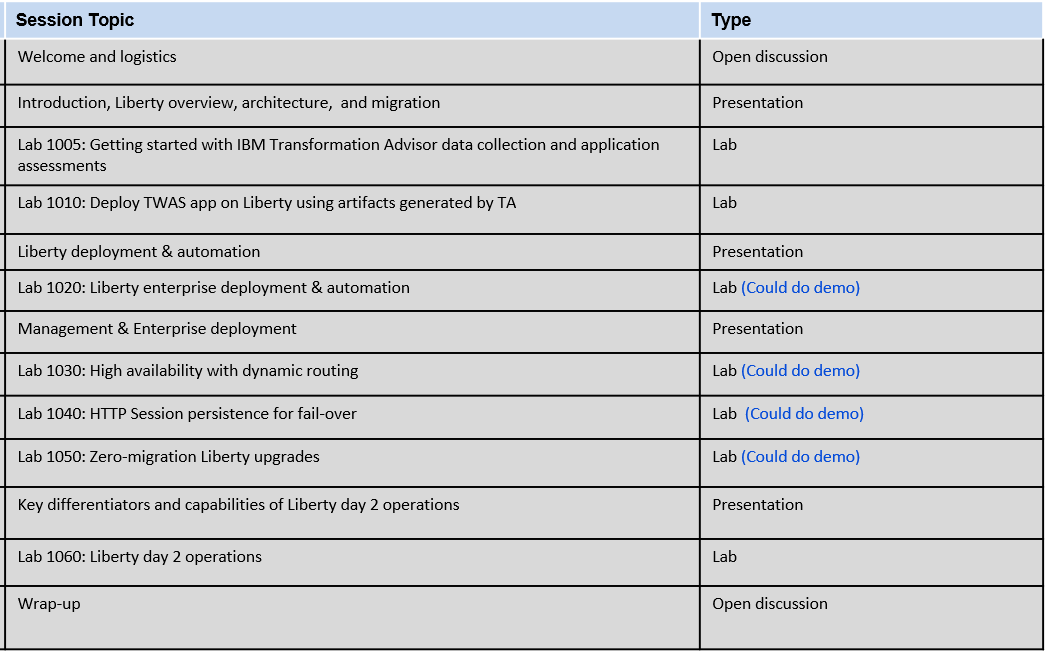
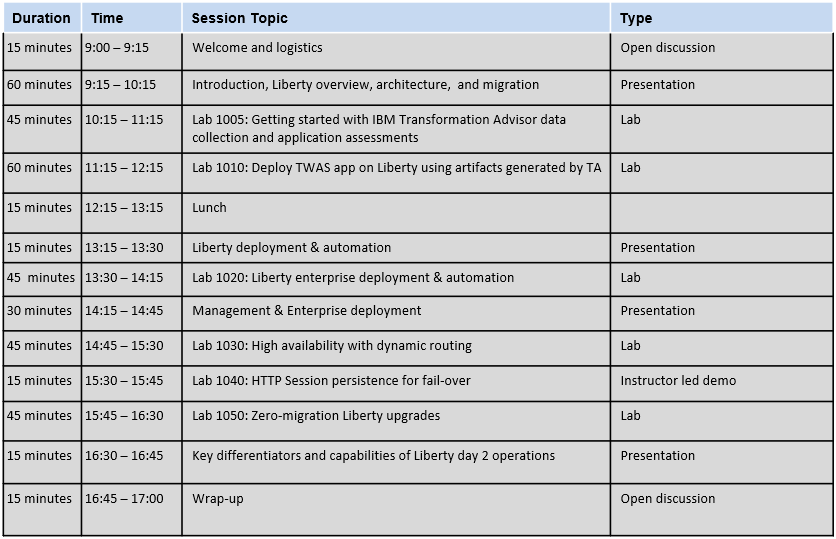
Deployed 9b71baa with MkDocs version: 1.0.4

Changed region(s): [[0.0, 0.0, 1.0, 1.0]]

diff --git a/day1/index.html b/day1/index.html
@@ -62,7 +62,10 @@
     <li class="toctree-l2"><a href="#access-the-lab-environment">Access the lab environment</a></li>
     
 
-    <li class="toctree-l2"><a href="#labs">Labs</a></li>
+    <li class="toctree-l2"><a href="#runtime-modernization-labs">Runtime modernization labs</a></li>
+    
+
+    <li class="toctree-l2"><a href="#liberty-enterprise-deployment-labs">Liberty Enterprise deployment labs</a></li>
     
 
     </ul>
@@ -126,15 +129,62 @@ Time | Session
 -->
 
 <h3 id="access-the-lab-environment">Access the lab environment</h3>
-<p><strong>Lab Environment:</strong>  <a href="https://tbd">TBD</a></p>
-<blockquote>
+<h4 style="color:red"> Lab environments have been pre-assigned based on your email address provided to IBM. </h4>
+
+<h4 style="color:red"> The lab instructor will provide you the URL to your unique lab environment. </h4>
+
+<!--
+### Access the lab environment
+
+  **Lab Environment:**  [https://techzone.ibm.com/my/workshops/student/645562a59841da00176142a0](https://techzone.ibm.com/my/workshops/student/645562a59841da00176142a0)
+
+  > - **Workshop Password:** liberty0616
+-->
+
+<h3 id="runtime-modernization-labs">Runtime modernization labs</h3>
 <ul>
-<li><strong>Workshop Password:</strong> techjam0504</li>
+<li>
+<p>LAB 1005: Getting started with IBM Transformation Advisor data collection and application assessments</p>
+</li>
+<li>
+<p>LAB 1010: Deploy TWAS app on Liberty using artifacts generated by TA</p>
+</li>
 </ul>
-</blockquote>
-<h3 id="labs">Labs</h3>
-<pre><code>[Lab Guides](http://tbd)
-</code></pre>
+<h3 id="liberty-enterprise-deployment-labs">Liberty Enterprise deployment labs</h3>
+<ul>
+<li>
+<p>LAB 1020: Liberty enterprise deployment &amp; automation</p>
+</li>
+<li>
+<p>LAB 1030: High availability with dynamic routing</p>
+</li>
+<li>
+<p>LAB 1050: Zero-migration Liberty upgrades</p>
+</li>
+</ul>
+<!--
+### Runtime modernization labs
+
+
+
+  - LAB 1005: [Getting started with IBM Transformation Advisor data collection and application assessments](https://github.com/IBMTechSales/liberty-enterprise-deployment-labs/tree/master/1005-Transformation_Advisor)
+
+  - LAB 1010: [Deploy TWAS app on Liberty using artifacts generated by TA](https://github.com/IBMTechSales/liberty-enterprise-deployment-labs/tree/master/1010-Modernize-Runtime-to-Liberty)
+
+
+
+
+
+### Liberty Enterprise deployment labs 
+
+
+  - LAB 1020: [Liberty enterprise deployment & automation](https://github.com/IBMTechSales/liberty-enterprise-deployment-labs/tree/master/1020-Liberty-app-deployment-collectives)
+
+  - LAB 1030: [High availability with dynamic routing ](https://github.com/IBMTechSales/liberty-enterprise-deployment-labs/tree/master/1030-Value-of-Liberty-dynamic-routing)
+
+  - LAB 1050: [Zero-migration Liberty upgrades](https://github.com/IBMTechSales/liberty-enterprise-deployment-labs/tree/master/1050-Zero-migration-upgrade%20-Liberty)
+
+-->
               
             </div>
           </div>

diff --git a/index.html b/index.html
@@ -107,18 +107,23 @@
 ![](images/bcbs-sc.png)
 -->
 
-<p><strong>Thursday, May 4, 2023</strong> </p>
-<p>Time: 9:30 pm - 5:30 pm (Eastern Time zone)</p>
+<p><strong>Friday, June 16, 2023</strong> </p>
+<p>Time: 8:30 pm - 4:30 pm (Mountain Daylight Time)</p>
+<p>This is a 1 day technical workshop.  </p>
 <ul>
-<li>This is a 1 day technical workshop.  </li>
-<li>Refer to the <strong>labs</strong> menu item from the left-navigation section to access the labs an environment. </li>
+<li>
+<p>Refer to the <strong>"Workshop labs"</strong> menu item from the left-navigation section to access the lab guides and lab environment. </p>
+</li>
+<li>
+<p>Refer to the <strong>"Accessing lab environment"</strong> menu item for details on how to access the lab environment. </p>
+</li>
 </ul>
 <h3 style="color:black">Proposed Agenda</h3>
 
-<p><img alt="" src="images/agenda.png" /></p>
+<p><img alt="" src="images/agenda-2.png" /></p>
 <h3 style="color:black">Presentation Material</h3>
 
-<p><a href="http://TBD">http://TBD</a></p>
+<p><a href="https://ibm.box.com/v/Liberty-Deploy-POT-share">Material shared with attendees</a></p>
 <h3 style="color:black">Hands-on Labs</h3>
 
 <ul>
@@ -177,5 +182,5 @@
 
 <!--
 MkDocs version : 1.0.4
-Build Date UTC : 2023-05-02 21:24:26
+Build Date UTC : 2023-06-07 20:42:33
 -->

diff --git a/lab-env/index.html b/lab-env/index.html
@@ -106,6 +106,8 @@
 <li>
 <p>Go to the Attendee Lab URL from the <strong>Workshop Labs</strong> menu item, </p>
 <p>From the <strong>Workshop Labs</strong> menu item, select the Lab Environment URL for the specific lab(s) you want to run</p>
+<p><strong>NOTE:</strong> Your workshop password is NOT the password illustrated in the example below. </p>
+<p><strong>NOTE:</strong> Refer to the <strong>Workshop Labs</strong> page for your specific workshop password. </p>
 <p><img alt="" src="../images/attendee-url.png" /></p>
 <p><br/></p>
 </li>
